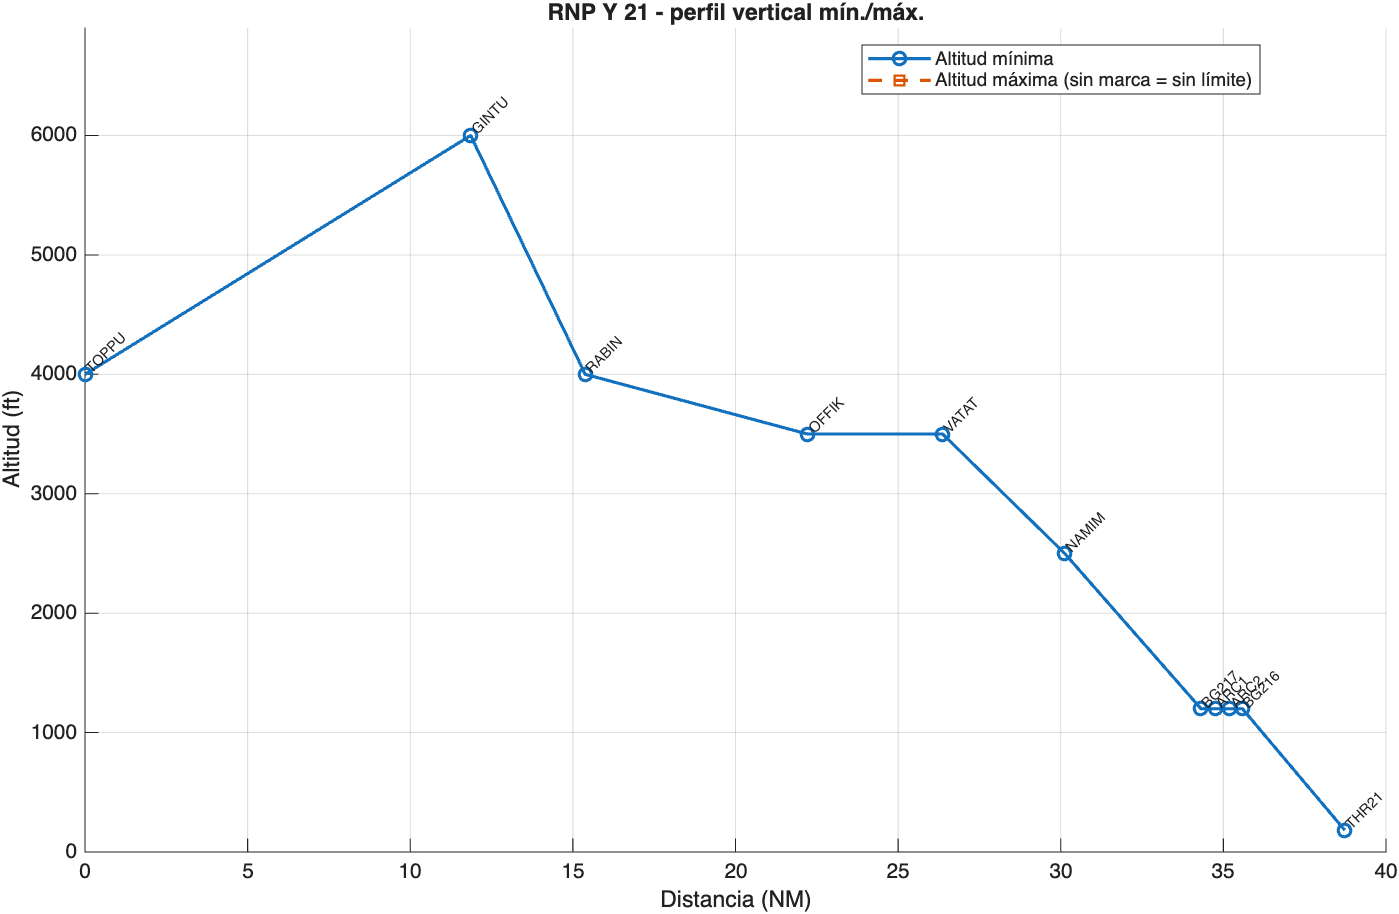
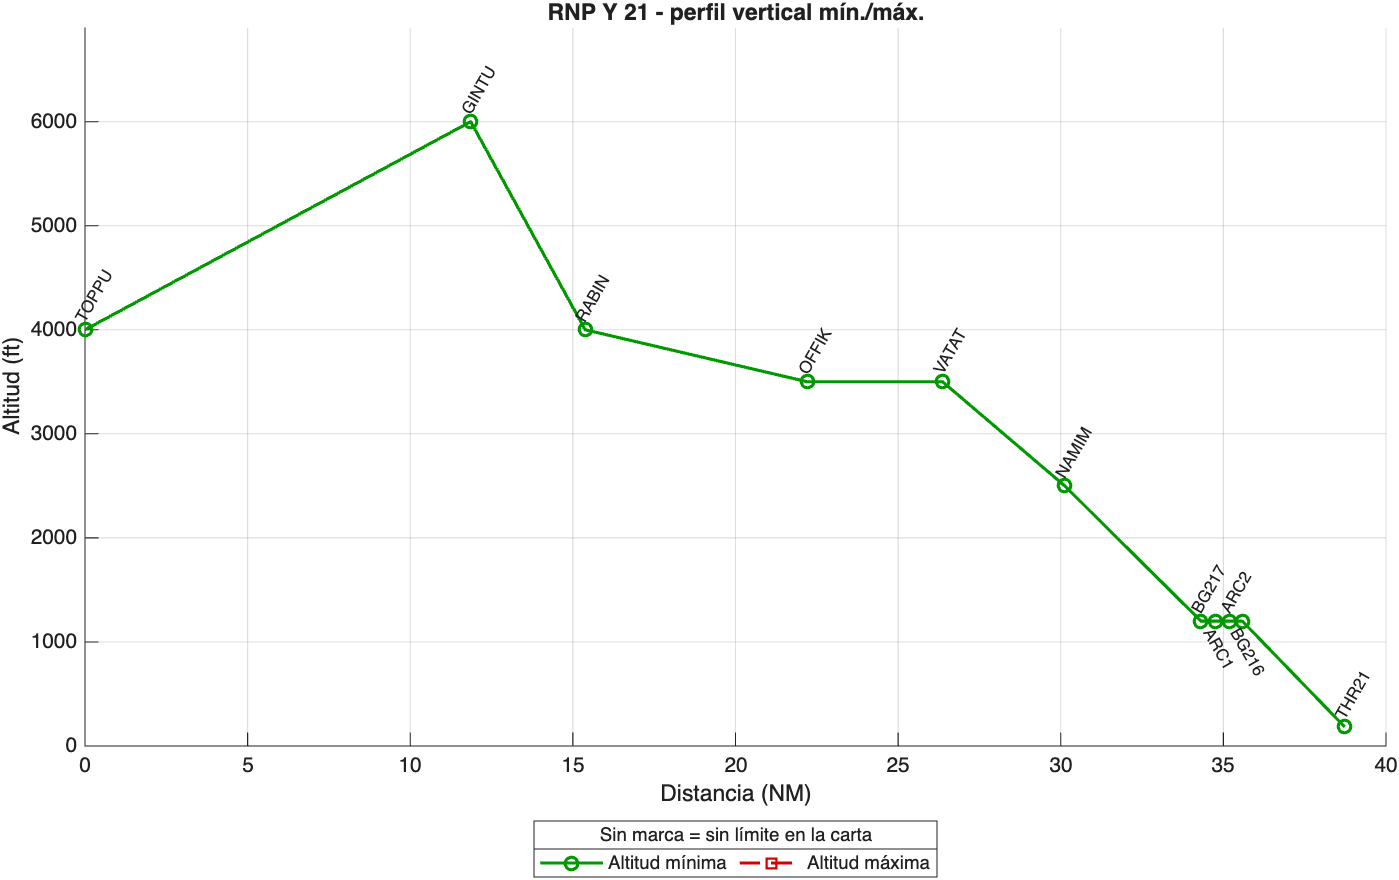
Corrige las gráficas del código: sin líneas falsas de mínimos, paneles separados y mapa reproducible

diff --git a/Air Transport, Air Navigation, and Air Traffic Management/trabajo/matlab/lib/plot_vertical_profile.m b/Air Transport, Air Navigation, and Air Traffic Management/trabajo/matlab/lib/plot_vertical_profile.m
@@ -1,36 +1,48 @@
 function plot_vertical_profile(tr, F, R, dPhase, file1, file2)
 % Plots the vertical profile: (1) altitude vs distance for each phase (SID,
 % en-route, arrival+approach) with the minimum / maximum altitudes of the
-% horizontal study; (2) whole route: altitude, speeds and thrust ratio.
+% horizontal study; (2) whole route: altitude, speeds, thrust ratio and
+% vertical speed.
 % Input:  tr = trace (SI); F = fixes (d NM, alt_min, alt_max); R = results
 %         (r_toc, r_tod); dPhase = [d end of SID, d end of en-route] (NM);
 %         file1, file2 = output PNG files
-M2FT = 1/0.3048; M2NM = 1/1852; MPS2KTS = 3600/1852;
-r = tr.r*M2NM; h = tr.h*M2FT; d = [F.d]; amin = [F.alt_min]; amax = [F.alt_max];
-amax(amax >= 40000) = NaN;                        % "no limit" is not drawn
+M2FT = 1/0.3048; M2NM = 1/1852; MPS2KTS = 3600/1852; MPS2FPM = 60/0.3048;
+X_PAD_FRAC = 0.02; Y_HEADROOM = 1.15; MACH_COLOR = [0 0.6 0];
+XLBL = 'Distancia desde el DER 36R (NM)';
+r = tr.r*M2NM; h = tr.h*M2FT; d = [F.d];
 lim = [0, dPhase, max(d)]; ttl = {'Salida (SID NANDO3R)', 'En-ruta (NANDO - ZUKKO)', 'Llegada ERREZ1A + ILS 21'};
-f = figure('Visible', 'off', 'Theme', 'light', 'Position', [0 0 1100 900]);
+f = figure('Visible', 'off', 'Theme', 'light', 'Position', [0 0 950 900]);
+t = tiledlayout(f, 3, 1, 'TileSpacing', 'compact', 'Padding', 'compact');
 for k = 1:3
-    subplot(3,1,k); hold on; grid on;
-    s = r >= lim(k) - 1e-6 & r <= lim(k+1) + 1e-6; j = d >= lim(k) - 1e-6 & d <= lim(k+1) + 1e-6;
-    plot(r(s), h(s), 'b-', 'LineWidth', 1.6);
-    plot(d(j), amin(j), 'g-o', 'LineWidth', 1); plot(d(j), amax(j), 'r--s', 'LineWidth', 1);
-    text(d(j), amin(j), strcat({' '}, {F(j).name}), 'FontSize', 6, 'Rotation', 60);
-    for q = [R.r_toc, R.r_tod]
-        if q >= lim(k) && q <= lim(k+1), xline(q, 'k:'); end
-    end
-    xlim([lim(k) lim(k+1)]); xlabel('Distancia desde el DER 36R (NM)'); ylabel('Altitud (ft)');
-    title(ttl{k}); legend('Perfil BADA', 'Altitud mínima', 'Altitud máxima', 'Location', 'best');
+    ax = nexttile(t); hold on; grid on; ax.YAxis.Exponent = 0;
+    x = [lim(k), lim(k+1)] + [-1 1]*X_PAD_FRAC*(lim(k+1) - lim(k));
+    s = r >= x(1) & r <= x(2); j = d >= lim(k) - 1e-6 & d <= lim(k+1) + 1e-6;
+    hp = plot(r(s), h(s), 'b-', 'LineWidth', 1.6);
+    hl = plot_fix_limits(d(j), [F(j).alt_min], [F(j).alt_max], {F(j).name});
+    mark_toc_tod(R);
+    xlim(x); ylim([0, Y_HEADROOM*max([max(h(s)), hl(1).YData, hl(2).YData])]); title(ttl{k});
 end
+xlabel(t, XLBL); ylabel(t, 'Altitud (ft)');
+lg = legend(ax, [hp, hl], 'Perfil BADA', 'Altitud mínima', 'Altitud máxima', 'Orientation', 'horizontal');
+title(lg, 'Sin marca = sin límite en la carta', 'FontWeight', 'normal'); lg.Layout.Tile = 'south';
 exportgraphics(f, file1, 'Resolution', 150, 'BackgroundColor', 'white'); close(f);
 
-f = figure('Visible', 'off', 'Theme', 'light', 'Position', [0 0 1100 900]);
-subplot(3,1,1); plot(r, h, 'b-', 'LineWidth', 1.5); grid on; hold on;
-xline(R.r_toc, 'k:', 'TOC'); xline(R.r_tod, 'k:', 'TOD'); ylabel('Altitud (ft)'); title('Perfil vertical LEMD 36R - LLBG 21 (B738, BADA 3.14)');
-subplot(3,1,2); plot(r, tr.cas*MPS2KTS, 'b-', r, tr.V*MPS2KTS, 'r-', 'LineWidth', 1.2); grid on; hold on;
-yyaxis right; plot(r, tr.M, 'g-'); ylabel('Mach'); yyaxis left; ylabel('Velocidad (kt)'); legend('IAS (CAS)', 'TAS', 'Mach', 'Location', 'best');
-subplot(3,1,3); plot(r, 100*tr.Tr, 'b-', 'LineWidth', 1.2); grid on; hold on; ylabel('Tr = T/Tmax (%)');
-yyaxis right; plot(r, tr.hdot/0.00508, 'r-'); ylabel('Velocidad vertical (fpm)'); xlabel('Distancia desde el DER 36R (NM)');
-legend('Empuje relativo', 'VS', 'Location', 'best');
+f = figure('Visible', 'off', 'Theme', 'light', 'Position', [0 0 950 950]);
+t = tiledlayout(f, 4, 1, 'TileSpacing', 'compact', 'Padding', 'compact');
+ax = nexttile(t); plot(r, h, 'b-', 'LineWidth', 1.5); grid on; hold on; ax.YAxis.Exponent = 0;
+mark_toc_tod(R); ylim([0, Y_HEADROOM*max(h)]); ylabel('Altitud (ft)');
+title(t, 'Perfil vertical LEMD 36R - LLBG 21 (B738, BADA 3.14)');
+ax(2) = nexttile(t); plot(r, tr.cas*MPS2KTS, 'b-', r, tr.V*MPS2KTS, 'r-', 'LineWidth', 1.2); grid on;
+yyaxis right; plot(r, tr.M, 'Color', MACH_COLOR, 'LineWidth', 1.2); ylim([0 1]); ylabel('Mach');
+ax(2).YAxis(2).Color = MACH_COLOR; yyaxis left; ylabel('Velocidad (kt)');
+legend('IAS (CAS)', 'TAS', 'Mach', 'Location', 'northoutside', 'Orientation', 'horizontal');
+ax(3) = nexttile(t); plot(r, 100*tr.Tr, 'b-', 'LineWidth', 1.2); grid on; ylabel('Empuje T/T_{max} (%)'); ylim([0, 100*Y_HEADROOM]);
+ax(4) = nexttile(t); plot(r, tr.hdot*MPS2FPM, 'r-', 'LineWidth', 1.2); grid on; ylabel('Vel. vertical (fpm)');
+linkaxes(ax, 'x'); xlim(ax(1), [0, max(r)]); xlabel(t, XLBL);
 exportgraphics(f, file2, 'Resolution', 150, 'BackgroundColor', 'white'); close(f);
+end
+
+function mark_toc_tod(R)
+xline(R.r_toc, 'k:', 'TOC', 'LabelVerticalAlignment', 'middle', 'LabelHorizontalAlignment', 'right', 'HandleVisibility', 'off');
+xline(R.r_tod, 'k:', 'TOD', 'LabelVerticalAlignment', 'middle', 'LabelHorizontalAlignment', 'left', 'HandleVisibility', 'off');
 end

diff --git a/Air Transport, Air Navigation, and Air Traffic Management/trabajo/matlab/lib/plot_enroute_map.m b/Air Transport, Air Navigation, and Air Traffic Management/trabajo/matlab/lib/plot_enroute_map.m
@@ -1,0 +1,34 @@
+function plot_enroute_map(w0, w1, detailTo, pngfile)
+% Map of the planned fixes and of the real positions reached with wind, with
+% a separate detail panel from the first fix to detailTo.
+% Input:  w0 = planned route (name, lat, lon); w1 = wind case (lat_real,
+%         lon_real); detailTo = name of the last fix of the detail panel
+MAP_PAD_DEG = 2; DETAIL_PAD_DEG = 0.15;
+iDet = 1:find(strcmp({w0.name}, detailTo), 1);
+lat = [w0.lat]; lon = [w0.lon];
+f = figure('Visible', 'off', 'Theme', 'light', 'Position', [0 0 1150 480]);
+t = tiledlayout(f, 1, 3, 'TileSpacing', 'compact', 'Padding', 'compact');
+ax = nexttile(t, [1 2]); h = draw(ax, w0, w1, setdiff(1:numel(w0), iDet), 0.18);
+xlim(ax, [min(lon), max(lon)] + [-1 1]*MAP_PAD_DEG); ylim(ax, [min(lat), max(lat)] + [-1 1]*MAP_PAD_DEG);
+det = [min(lon(iDet)), min(lat(iDet)), max(lon(iDet)), max(lat(iDet))] + [-1 -1 1 1]*DETAIL_PAD_DEG;
+rectangle(ax, 'Position', [det(1:2), det(3:4) - det(1:2)], 'EdgeColor', [0.4 0.4 0.4]);
+text(ax, det(1), det(4), 'detalle', 'FontSize', 9, 'VerticalAlignment', 'bottom');
+xlabel(ax, 'Longitud (°)'); ylabel(ax, 'Latitud (°)'); title(ax, ['Ruta ', w0(1).name, ' - ', w0(end).name]);
+legend(ax, h, 'Ruta planificada (fijos)', 'Posiciones reales con viento (computeWT)', 'Location', 'southwest');
+ai = nexttile(t); draw(ai, w0, w1, iDet, 0.03);
+xlim(ai, det([1 3])); ylim(ai, det([2 4]));
+xlabel(ai, 'Longitud (°)'); title(ai, ['Detalle ', w0(1).name, ' - ', detailTo]);
+exportgraphics(f, pngfile, 'Resolution', 150, 'BackgroundColor', 'white'); close(f);
+end
+
+function h = draw(ax, w0, w1, labelled, dy)
+VALIGN = {'top', 'bottom'};
+hold(ax, 'on'); grid(ax, 'on'); box(ax, 'on'); set(ax, 'FontSize', 10);
+h = [plot(ax, [w0.lon], [w0.lat], 'b-o', 'LineWidth', 1.8, 'MarkerSize', 5, 'MarkerFaceColor', 'b'), ...
+     plot(ax, [w1.lon_real], [w1.lat_real], 'r--x', 'LineWidth', 1.0, 'MarkerSize', 7)];
+for i = labelled
+    up = mod(i, 2) == 1; s = 2*up - 1;
+    text(ax, w0(i).lon, w0(i).lat + s*dy, w0(i).name, 'FontSize', 9, 'Rotation', s*55, ...
+         'HorizontalAlignment', 'left', 'VerticalAlignment', VALIGN{up + 1});
+end
+end

diff --git a/Air Transport, Air Navigation, and Air Traffic Management/trabajo/matlab/lib/plot_fix_limits.m b/Air Transport, Air Navigation, and Air Traffic Management/trabajo/matlab/lib/plot_fix_limits.m
@@ -1,0 +1,20 @@
+function h = plot_fix_limits(d, amin, amax, names)
+% Draws the minimum / maximum altitude of each fix on the current axes and
+% labels the fixes. Chart "no limit" values (minimum 0 ft, maximum 40000 ft,
+% the defaults of apply_chart_limits / the main_* scripts) are not drawn.
+% Input:  d (NM), amin, amax (ft), names (cell array of fix names)
+% Output: h = [minimum line, maximum line] for the legend
+NO_MIN_FT = 0; NO_MAX_FT = 40000;
+CROWD_FRAC = 0.03;                     % fixes closer than this share of the x range alternate labels
+LABEL_ROT = 60; LABEL_FONT = 8;
+amin(amin <= NO_MIN_FT) = NaN; amax(amax >= NO_MAX_FT) = NaN;
+h = [plot(d, amin, '-o',  'Color', [0 0.6 0],   'LineWidth', 1.5), ...
+     plot(d, amax, '--s', 'Color', [0.85 0 0], 'LineWidth', 1.5)];
+y = amax; y(isnan(y)) = amin(isnan(y));
+crowd = CROWD_FRAC * (max(d) - min(d)); up = false; last = -Inf;
+for i = find(~isnan(y))
+    up = d(i) - last >= crowd || ~up; last = d(i);
+    if up, text(d(i), y(i), [' ' names{i}], 'FontSize', LABEL_FONT, 'Rotation', LABEL_ROT, 'VerticalAlignment', 'bottom');
+    else,  text(d(i), y(i), [' ' names{i}], 'FontSize', LABEL_FONT, 'Rotation', -LABEL_ROT, 'VerticalAlignment', 'top'); end
+end
+end

diff --git a/Air Transport, Air Navigation, and Air Traffic Management/trabajo/matlab/lib/plot_vertical_limits.m b/Air Transport, Air Navigation, and Air Traffic Management/trabajo/matlab/lib/plot_vertical_limits.m
@@ -1,15 +1,11 @@
 function plot_vertical_limits(wp, ttl, pngfile)
 % Distance/altitude plot of the minimum and maximum altitude at each fix.
 % Input: wp (alt_min, alt_max, Total_dist in m), ttl = title, pngfile = output
-NO_LIMIT_FT = 40000;                              % altMaxDefault of the main_* scripts
-d = [wp.Total_dist] / 1852; amin = [wp.alt_min]; amax = [wp.alt_max];
-amax(amax >= NO_LIMIT_FT) = NaN;
 f = figure('Visible','off', 'Theme','light'); hold on; grid on;
-plot(d, amin, '-o', 'LineWidth', 1.5);
-plot(d, amax, '--s', 'LineWidth', 1.5);
-text(d, amin, strcat({' '}, {wp.name}), 'FontSize', 7, 'Rotation', 45);
-ylim([0, 1.15*max([amin, amax])]);
+h = plot_fix_limits([wp.Total_dist] / 1852, [wp.alt_min], [wp.alt_max], {wp.name});
+ylim([0, 1.15*max([h.YData])]);
 xlabel('Distancia (NM)'); ylabel('Altitud (ft)'); title(ttl);
-legend('Altitud mínima', 'Altitud máxima (sin marca = sin límite)', 'Location', 'best');
+lg = legend(h, 'Altitud mínima', 'Altitud máxima', 'Location', 'southoutside', 'Orientation', 'horizontal');
+title(lg, 'Sin marca = sin límite en la carta', 'FontWeight', 'normal');
 exportgraphics(f, pngfile, 'Resolution', 150, 'BackgroundColor', 'white'); close(f);
 end

diff --git a/Air Transport, Air Navigation, and Air Traffic Management/trabajo/matlab/main_enroute.m b/Air Transport, Air Navigation, and Air Traffic Management/trabajo/matlab/main_enroute.m
@@ -30,6 +30,7 @@ wreal = w1; for i=1:numel(wreal), wreal(i).lat = w1(i).lat_real; wreal(i).lon = 
 kmlwrite_polyline(wreal, fullfile(out,'enroute-conviento.kml'), attr);
 export_route_table(fullfile(out,'enroute-sinviento'), w0);
 export_route_table(fullfile(out,'enroute-conviento'), w1);
+plot_enroute_map(w0, w1, 'LASPO', fullfile(out,'enroute-mapa.png'));
 
 fprintf('Fixes: %d | Distancia planificada: %.1f NM\n', numel(wp), w0(end).Total_dist/1852);
 fprintf('Sin viento : %.0f s = %.2f h\n', w0(end).time, w0(end).time/3600);
